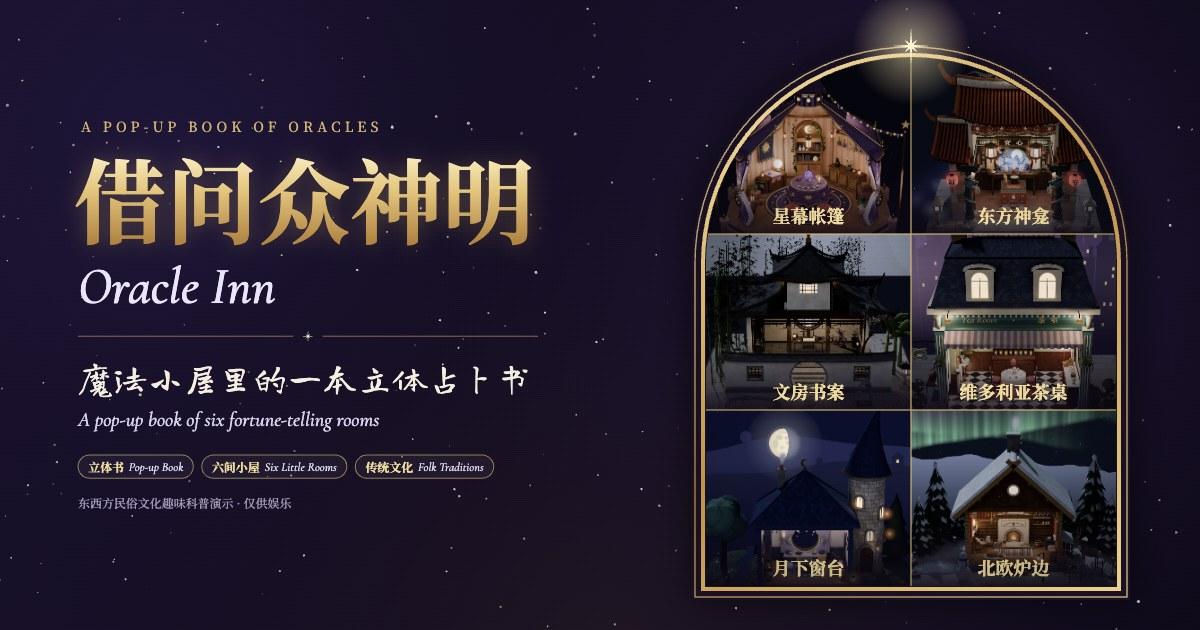
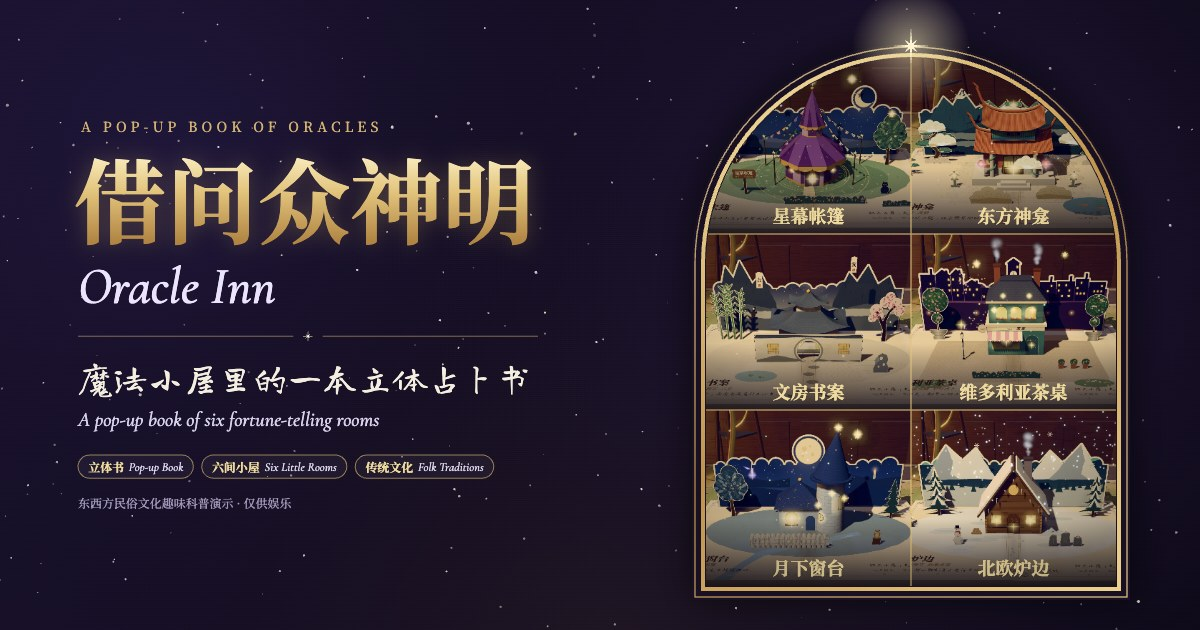
Show each room as its pop-up page in the link previews and README hero
The room interiors were too dark to read on the dark ground of the share images. The six-room mosaic in
og-image.jpg, share-square.jpg, docs/social-preview.jpg and the end of docs/hero.webp now shows each room's
pop-up page instead: bright paper, the little house standing on it. The preview image URLs move to ?v=3 so
cached cards refresh.

Changed region(s): [[0.5858, 0.0905, 0.9558, 0.9349]]

diff --git a/public/index.html b/public/index.html
@@ -1,4 +1,4 @@
-<!doctype html><html lang="zh-CN"><head><meta charset="utf-8"><meta name="viewport" content="width=device-width,initial-scale=1,viewport-fit=cover"><meta name="description" content="魔法小屋里的一本立体占卜书：推开悬在夜空里的门，翻开立体书，走进六间小屋——星幕帐篷、东方神龛、文房书案、维多利亚茶桌、月下窗台和北欧炉边。东西方民俗文化的趣味科普演示，仅供娱乐。"><meta name="color-scheme" content="dark"><meta name="theme-color" content="#120c14"><link rel="icon" href="favicon.ico" sizes="48x48"><link rel="icon" href="favicon.svg" type="image/svg+xml"><link rel="apple-touch-icon" href="apple-touch-icon.png"><link rel="manifest" href="site.webmanifest"><link rel="canonical" href="https://oracle-inn.summercommences.com/"><meta property="og:type" content="website"><meta property="og:site_name" content="借问众神明 · Oracle Inn"><meta property="og:locale" content="zh_CN"><meta property="og:title" content="借问众神明 · Oracle Inn"><meta property="og:description" content="魔法小屋里的一本立体占卜书：推开悬在夜空里的门，翻开立体书，走进六间小屋——星幕帐篷、东方神龛、文房书案、维多利亚茶桌、月下窗台和北欧炉边。东西方民俗文化的趣味科普演示，仅供娱乐。"><meta property="og:url" content="https://oracle-inn.summercommences.com/"><meta property="og:image" content="https://oracle-inn.summercommences.com/og-image.jpg?v=2"><meta property="og:image:width" content="1200"><meta property="og:image:height" content="630"><meta property="og:image:alt" content="借问众神明 · Oracle Inn：拱形金框窗里拼着六间小屋：星幕帐篷、东方神龛、文房书案、维多利亚茶桌、月下窗台和北欧炉边"><meta name="twitter:card" content="summary_large_image"><meta name="twitter:title" content="借问众神明 · Oracle Inn"><meta name="twitter:description" content="魔法小屋里的一本立体占卜书：推开悬在夜空里的门，翻开立体书，走进六间小屋——星幕帐篷、东方神龛、文房书案、维多利亚茶桌、月下窗台和北欧炉边。东西方民俗文化的趣味科普演示，仅供娱乐。"><meta name="twitter:image" content="https://oracle-inn.summercommences.com/og-image.jpg?v=2"><meta name="twitter:image:alt" content="借问众神明 · Oracle Inn：拱形金框窗里拼着六间小屋：星幕帐篷、东方神龛、文房书案、维多利亚茶桌、月下窗台和北欧炉边"><meta itemprop="name" content="借问众神明 · Oracle Inn"><meta itemprop="description" content="魔法小屋里的一本立体占卜书：推开悬在夜空里的门，翻开立体书，走进六间小屋——星幕帐篷、东方神龛、文房书案、维多利亚茶桌、月下窗台和北欧炉边。东西方民俗文化的趣味科普演示，仅供娱乐。"><meta itemprop="image" content="https://oracle-inn.summercommences.com/share-square.jpg?v=2"><title>借问众神明 · Oracle Inn</title>
+<!doctype html><html lang="zh-CN"><head><meta charset="utf-8"><meta name="viewport" content="width=device-width,initial-scale=1,viewport-fit=cover"><meta name="description" content="魔法小屋里的一本立体占卜书：推开悬在夜空里的门，翻开立体书，走进六间小屋——星幕帐篷、东方神龛、文房书案、维多利亚茶桌、月下窗台和北欧炉边。东西方民俗文化的趣味科普演示，仅供娱乐。"><meta name="color-scheme" content="dark"><meta name="theme-color" content="#120c14"><link rel="icon" href="favicon.ico" sizes="48x48"><link rel="icon" href="favicon.svg" type="image/svg+xml"><link rel="apple-touch-icon" href="apple-touch-icon.png"><link rel="manifest" href="site.webmanifest"><link rel="canonical" href="https://oracle-inn.summercommences.com/"><meta property="og:type" content="website"><meta property="og:site_name" content="借问众神明 · Oracle Inn"><meta property="og:locale" content="zh_CN"><meta property="og:title" content="借问众神明 · Oracle Inn"><meta property="og:description" content="魔法小屋里的一本立体占卜书：推开悬在夜空里的门，翻开立体书，走进六间小屋——星幕帐篷、东方神龛、文房书案、维多利亚茶桌、月下窗台和北欧炉边。东西方民俗文化的趣味科普演示，仅供娱乐。"><meta property="og:url" content="https://oracle-inn.summercommences.com/"><meta property="og:image" content="https://oracle-inn.summercommences.com/og-image.jpg?v=3"><meta property="og:image:width" content="1200"><meta property="og:image:height" content="630"><meta property="og:image:alt" content="借问众神明 · Oracle Inn：拱形金框窗里拼着六间小屋：星幕帐篷、东方神龛、文房书案、维多利亚茶桌、月下窗台和北欧炉边"><meta name="twitter:card" content="summary_large_image"><meta name="twitter:title" content="借问众神明 · Oracle Inn"><meta name="twitter:description" content="魔法小屋里的一本立体占卜书：推开悬在夜空里的门，翻开立体书，走进六间小屋——星幕帐篷、东方神龛、文房书案、维多利亚茶桌、月下窗台和北欧炉边。东西方民俗文化的趣味科普演示，仅供娱乐。"><meta name="twitter:image" content="https://oracle-inn.summercommences.com/og-image.jpg?v=3"><meta name="twitter:image:alt" content="借问众神明 · Oracle Inn：拱形金框窗里拼着六间小屋：星幕帐篷、东方神龛、文房书案、维多利亚茶桌、月下窗台和北欧炉边"><meta itemprop="name" content="借问众神明 · Oracle Inn"><meta itemprop="description" content="魔法小屋里的一本立体占卜书：推开悬在夜空里的门，翻开立体书，走进六间小屋——星幕帐篷、东方神龛、文房书案、维多利亚茶桌、月下窗台和北欧炉边。东西方民俗文化的趣味科普演示，仅供娱乐。"><meta itemprop="image" content="https://oracle-inn.summercommences.com/share-square.jpg?v=3"><title>借问众神明 · Oracle Inn</title>
 <link rel="stylesheet" href="vendor/fonts/fonts.css?v=e114a616">
 <script type="importmap">
 { "imports": {
@@ -266,7 +266,7 @@ body.hot #stage canvas, button, .chip, .slip { cursor: var(--wand-hot, pointer) 
 @keyframes unfold { from { transform: scaleY(.08); opacity: 0; } to { transform: none; opacity: 1; } }
 </style>
 
-<img src="share-square.jpg?v=2" alt="" width="600" height="600" loading="lazy" hidden>
+<img src="share-square.jpg?v=3" alt="" width="600" height="600" loading="lazy" hidden>
 <div id="stage"></div>
 <div class="vignette"></div>
 <header class="hud" id="hud">

diff --git a/public/cat-tarot-deck.html b/public/cat-tarot-deck.html
@@ -1,4 +1,4 @@
-<!doctype html><html lang="zh-CN"><head><meta charset="utf-8"><meta name="viewport" content="width=device-width,initial-scale=1"><meta name="description" content="猫咪穆夏塔罗：借问众神明里的 22 张大阿卡纳牌面与正逆位牌义。"><link rel="icon" href="favicon.ico" sizes="48x48"><link rel="icon" href="favicon.svg" type="image/svg+xml"><link rel="apple-touch-icon" href="apple-touch-icon.png"><link rel="manifest" href="site.webmanifest"><link rel="canonical" href="https://oracle-inn.summercommences.com/cat-tarot-deck"><meta property="og:type" content="website"><meta property="og:site_name" content="借问众神明 · Oracle Inn"><meta property="og:locale" content="zh_CN"><meta property="og:title" content="猫咪穆夏塔罗 · 借问众神明"><meta property="og:description" content="借问众神明里的 22 张猫咪穆夏风大阿卡纳：牌面、正位与逆位牌义。东西方民俗文化的趣味科普演示，仅供娱乐。"><meta property="og:url" content="https://oracle-inn.summercommences.com/cat-tarot-deck"><meta property="og:image" content="https://oracle-inn.summercommences.com/og-image.jpg?v=2"><meta property="og:image:width" content="1200"><meta property="og:image:height" content="630"><meta property="og:image:alt" content="借问众神明 · Oracle Inn：拱形金框窗里拼着六间小屋：星幕帐篷、东方神龛、文房书案、维多利亚茶桌、月下窗台和北欧炉边"><meta name="twitter:card" content="summary_large_image"><meta name="twitter:title" content="猫咪穆夏塔罗 · 借问众神明"><meta name="twitter:description" content="借问众神明里的 22 张猫咪穆夏风大阿卡纳：牌面、正位与逆位牌义。东西方民俗文化的趣味科普演示，仅供娱乐。"><meta name="twitter:image" content="https://oracle-inn.summercommences.com/og-image.jpg?v=2"><meta name="twitter:image:alt" content="借问众神明 · Oracle Inn：拱形金框窗里拼着六间小屋：星幕帐篷、东方神龛、文房书案、维多利亚茶桌、月下窗台和北欧炉边"><meta itemprop="name" content="猫咪穆夏塔罗 · 借问众神明"><meta itemprop="description" content="借问众神明里的 22 张猫咪穆夏风大阿卡纳：牌面、正位与逆位牌义。东西方民俗文化的趣味科普演示，仅供娱乐。"><meta itemprop="image" content="https://oracle-inn.summercommences.com/share-square.jpg?v=2"><title>猫咪穆夏塔罗</title>
+<!doctype html><html lang="zh-CN"><head><meta charset="utf-8"><meta name="viewport" content="width=device-width,initial-scale=1"><meta name="description" content="猫咪穆夏塔罗：借问众神明里的 22 张大阿卡纳牌面与正逆位牌义。"><link rel="icon" href="favicon.ico" sizes="48x48"><link rel="icon" href="favicon.svg" type="image/svg+xml"><link rel="apple-touch-icon" href="apple-touch-icon.png"><link rel="manifest" href="site.webmanifest"><link rel="canonical" href="https://oracle-inn.summercommences.com/cat-tarot-deck"><meta property="og:type" content="website"><meta property="og:site_name" content="借问众神明 · Oracle Inn"><meta property="og:locale" content="zh_CN"><meta property="og:title" content="猫咪穆夏塔罗 · 借问众神明"><meta property="og:description" content="借问众神明里的 22 张猫咪穆夏风大阿卡纳：牌面、正位与逆位牌义。东西方民俗文化的趣味科普演示，仅供娱乐。"><meta property="og:url" content="https://oracle-inn.summercommences.com/cat-tarot-deck"><meta property="og:image" content="https://oracle-inn.summercommences.com/og-image.jpg?v=3"><meta property="og:image:width" content="1200"><meta property="og:image:height" content="630"><meta property="og:image:alt" content="借问众神明 · Oracle Inn：拱形金框窗里拼着六间小屋：星幕帐篷、东方神龛、文房书案、维多利亚茶桌、月下窗台和北欧炉边"><meta name="twitter:card" content="summary_large_image"><meta name="twitter:title" content="猫咪穆夏塔罗 · 借问众神明"><meta name="twitter:description" content="借问众神明里的 22 张猫咪穆夏风大阿卡纳：牌面、正位与逆位牌义。东西方民俗文化的趣味科普演示，仅供娱乐。"><meta name="twitter:image" content="https://oracle-inn.summercommences.com/og-image.jpg?v=3"><meta name="twitter:image:alt" content="借问众神明 · Oracle Inn：拱形金框窗里拼着六间小屋：星幕帐篷、东方神龛、文房书案、维多利亚茶桌、月下窗台和北欧炉边"><meta itemprop="name" content="猫咪穆夏塔罗 · 借问众神明"><meta itemprop="description" content="借问众神明里的 22 张猫咪穆夏风大阿卡纳：牌面、正位与逆位牌义。东西方民俗文化的趣味科普演示，仅供娱乐。"><meta itemprop="image" content="https://oracle-inn.summercommences.com/share-square.jpg?v=3"><title>猫咪穆夏塔罗</title>
 <link rel="stylesheet" href="vendor/fonts/fonts.css?v=e114a616">
 <style>
 /* layout: a dark velvet table; the back and a short note on top, then all twenty-two cards in rows, each with its two readings */

diff --git a/src/_shell.html b/src/_shell.html
@@ -165,7 +165,7 @@ body.hot #stage canvas, button, .chip, .slip { cursor: var(--wand-hot, pointer) 
 @keyframes unfold { from { transform: scaleY(.08); opacity: 0; } to { transform: none; opacity: 1; } }
 </style>
 
-<img src="share-square.jpg?v=2" alt="" width="600" height="600" loading="lazy" hidden>
+<img src="share-square.jpg?v=3" alt="" width="600" height="600" loading="lazy" hidden>
 <div id="stage"></div>
 <div class="vignette"></div>
 <header class="hud" id="hud">

diff --git a/build.py b/build.py
@@ -19,7 +19,7 @@ HEAD = ('<!doctype html><html lang="zh-CN"><head><meta charset="utf-8"><meta nam
         # tab and home-screen icons
         '<link rel="icon" href="favicon.ico" sizes="48x48"><link rel="icon" href="favicon.svg" type="image/svg+xml"><link rel="apple-touch-icon" href="apple-touch-icon.png"><link rel="manifest" href="site.webmanifest">'
         # the card a shared link shows (Open Graph, Twitter/X; itemprop for WeChat and QQ)
-        '<link rel="canonical" href="https://oracle-inn.summercommences.com/"><meta property="og:type" content="website"><meta property="og:site_name" content="借问众神明 · Oracle Inn"><meta property="og:locale" content="zh_CN"><meta property="og:title" content="借问众神明 · Oracle Inn"><meta property="og:description" content="魔法小屋里的一本立体占卜书：推开悬在夜空里的门，翻开立体书，走进六间小屋——星幕帐篷、东方神龛、文房书案、维多利亚茶桌、月下窗台和北欧炉边。东西方民俗文化的趣味科普演示，仅供娱乐。"><meta property="og:url" content="https://oracle-inn.summercommences.com/"><meta property="og:image" content="https://oracle-inn.summercommences.com/og-image.jpg?v=2"><meta property="og:image:width" content="1200"><meta property="og:image:height" content="630"><meta property="og:image:alt" content="借问众神明 · Oracle Inn：拱形金框窗里拼着六间小屋：星幕帐篷、东方神龛、文房书案、维多利亚茶桌、月下窗台和北欧炉边"><meta name="twitter:card" content="summary_large_image"><meta name="twitter:title" content="借问众神明 · Oracle Inn"><meta name="twitter:description" content="魔法小屋里的一本立体占卜书：推开悬在夜空里的门，翻开立体书，走进六间小屋——星幕帐篷、东方神龛、文房书案、维多利亚茶桌、月下窗台和北欧炉边。东西方民俗文化的趣味科普演示，仅供娱乐。"><meta name="twitter:image" content="https://oracle-inn.summercommences.com/og-image.jpg?v=2"><meta name="twitter:image:alt" content="借问众神明 · Oracle Inn：拱形金框窗里拼着六间小屋：星幕帐篷、东方神龛、文房书案、维多利亚茶桌、月下窗台和北欧炉边"><meta itemprop="name" content="借问众神明 · Oracle Inn"><meta itemprop="description" content="魔法小屋里的一本立体占卜书：推开悬在夜空里的门，翻开立体书，走进六间小屋——星幕帐篷、东方神龛、文房书案、维多利亚茶桌、月下窗台和北欧炉边。东西方民俗文化的趣味科普演示，仅供娱乐。"><meta itemprop="image" content="https://oracle-inn.summercommences.com/share-square.jpg?v=2">')
+        '<link rel="canonical" href="https://oracle-inn.summercommences.com/"><meta property="og:type" content="website"><meta property="og:site_name" content="借问众神明 · Oracle Inn"><meta property="og:locale" content="zh_CN"><meta property="og:title" content="借问众神明 · Oracle Inn"><meta property="og:description" content="魔法小屋里的一本立体占卜书：推开悬在夜空里的门，翻开立体书，走进六间小屋——星幕帐篷、东方神龛、文房书案、维多利亚茶桌、月下窗台和北欧炉边。东西方民俗文化的趣味科普演示，仅供娱乐。"><meta property="og:url" content="https://oracle-inn.summercommences.com/"><meta property="og:image" content="https://oracle-inn.summercommences.com/og-image.jpg?v=3"><meta property="og:image:width" content="1200"><meta property="og:image:height" content="630"><meta property="og:image:alt" content="借问众神明 · Oracle Inn：拱形金框窗里拼着六间小屋：星幕帐篷、东方神龛、文房书案、维多利亚茶桌、月下窗台和北欧炉边"><meta name="twitter:card" content="summary_large_image"><meta name="twitter:title" content="借问众神明 · Oracle Inn"><meta name="twitter:description" content="魔法小屋里的一本立体占卜书：推开悬在夜空里的门，翻开立体书，走进六间小屋——星幕帐篷、东方神龛、文房书案、维多利亚茶桌、月下窗台和北欧炉边。东西方民俗文化的趣味科普演示，仅供娱乐。"><meta name="twitter:image" content="https://oracle-inn.summercommences.com/og-image.jpg?v=3"><meta name="twitter:image:alt" content="借问众神明 · Oracle Inn：拱形金框窗里拼着六间小屋：星幕帐篷、东方神龛、文房书案、维多利亚茶桌、月下窗台和北欧炉边"><meta itemprop="name" content="借问众神明 · Oracle Inn"><meta itemprop="description" content="魔法小屋里的一本立体占卜书：推开悬在夜空里的门，翻开立体书，走进六间小屋——星幕帐篷、东方神龛、文房书案、维多利亚茶桌、月下窗台和北欧炉边。东西方民俗文化的趣味科普演示，仅供娱乐。"><meta itemprop="image" content="https://oracle-inn.summercommences.com/share-square.jpg?v=3">')
 # self-hosted fonts: the sheet's URL carries its hash, so it (and the files it names) can be cached for good
 import hashlib
 pub = root / 'public'; fcss = (pub / 'vendor' / 'fonts' / 'fonts.css').read_text()
